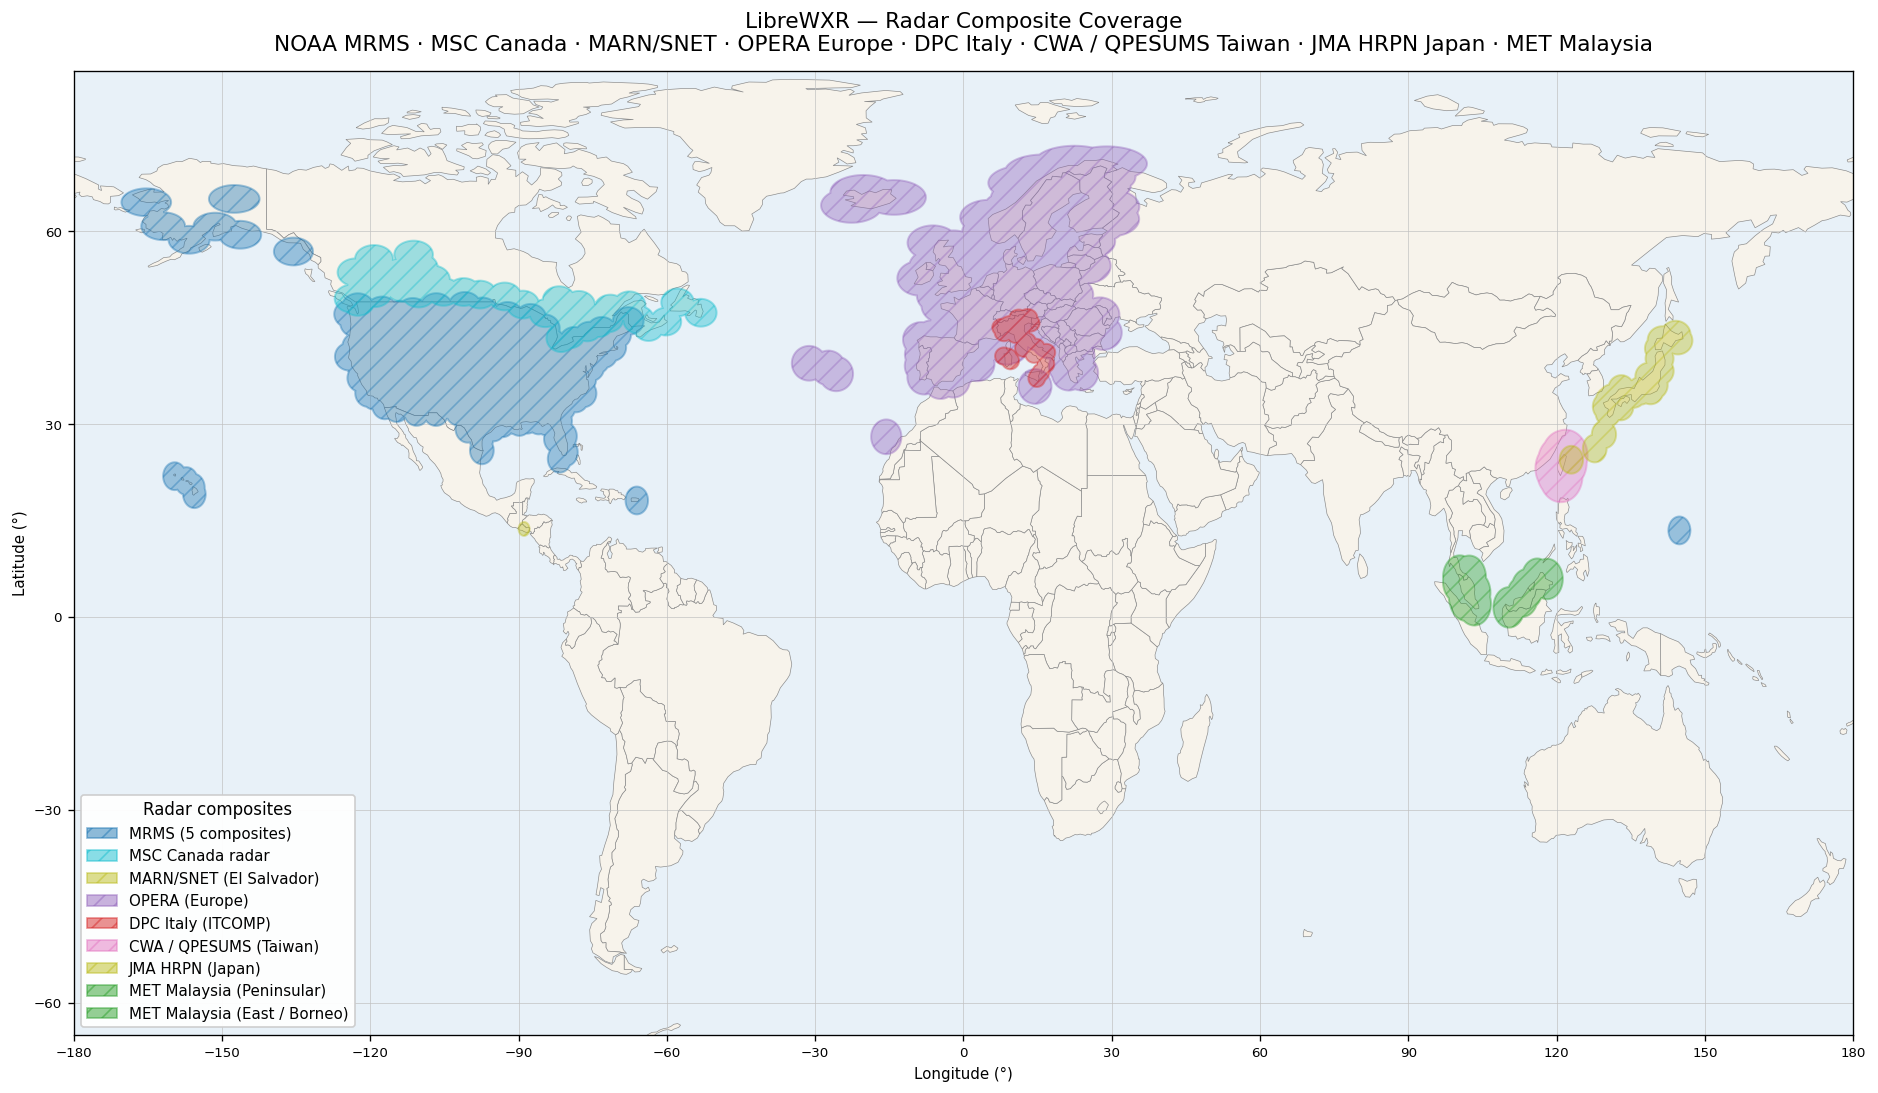
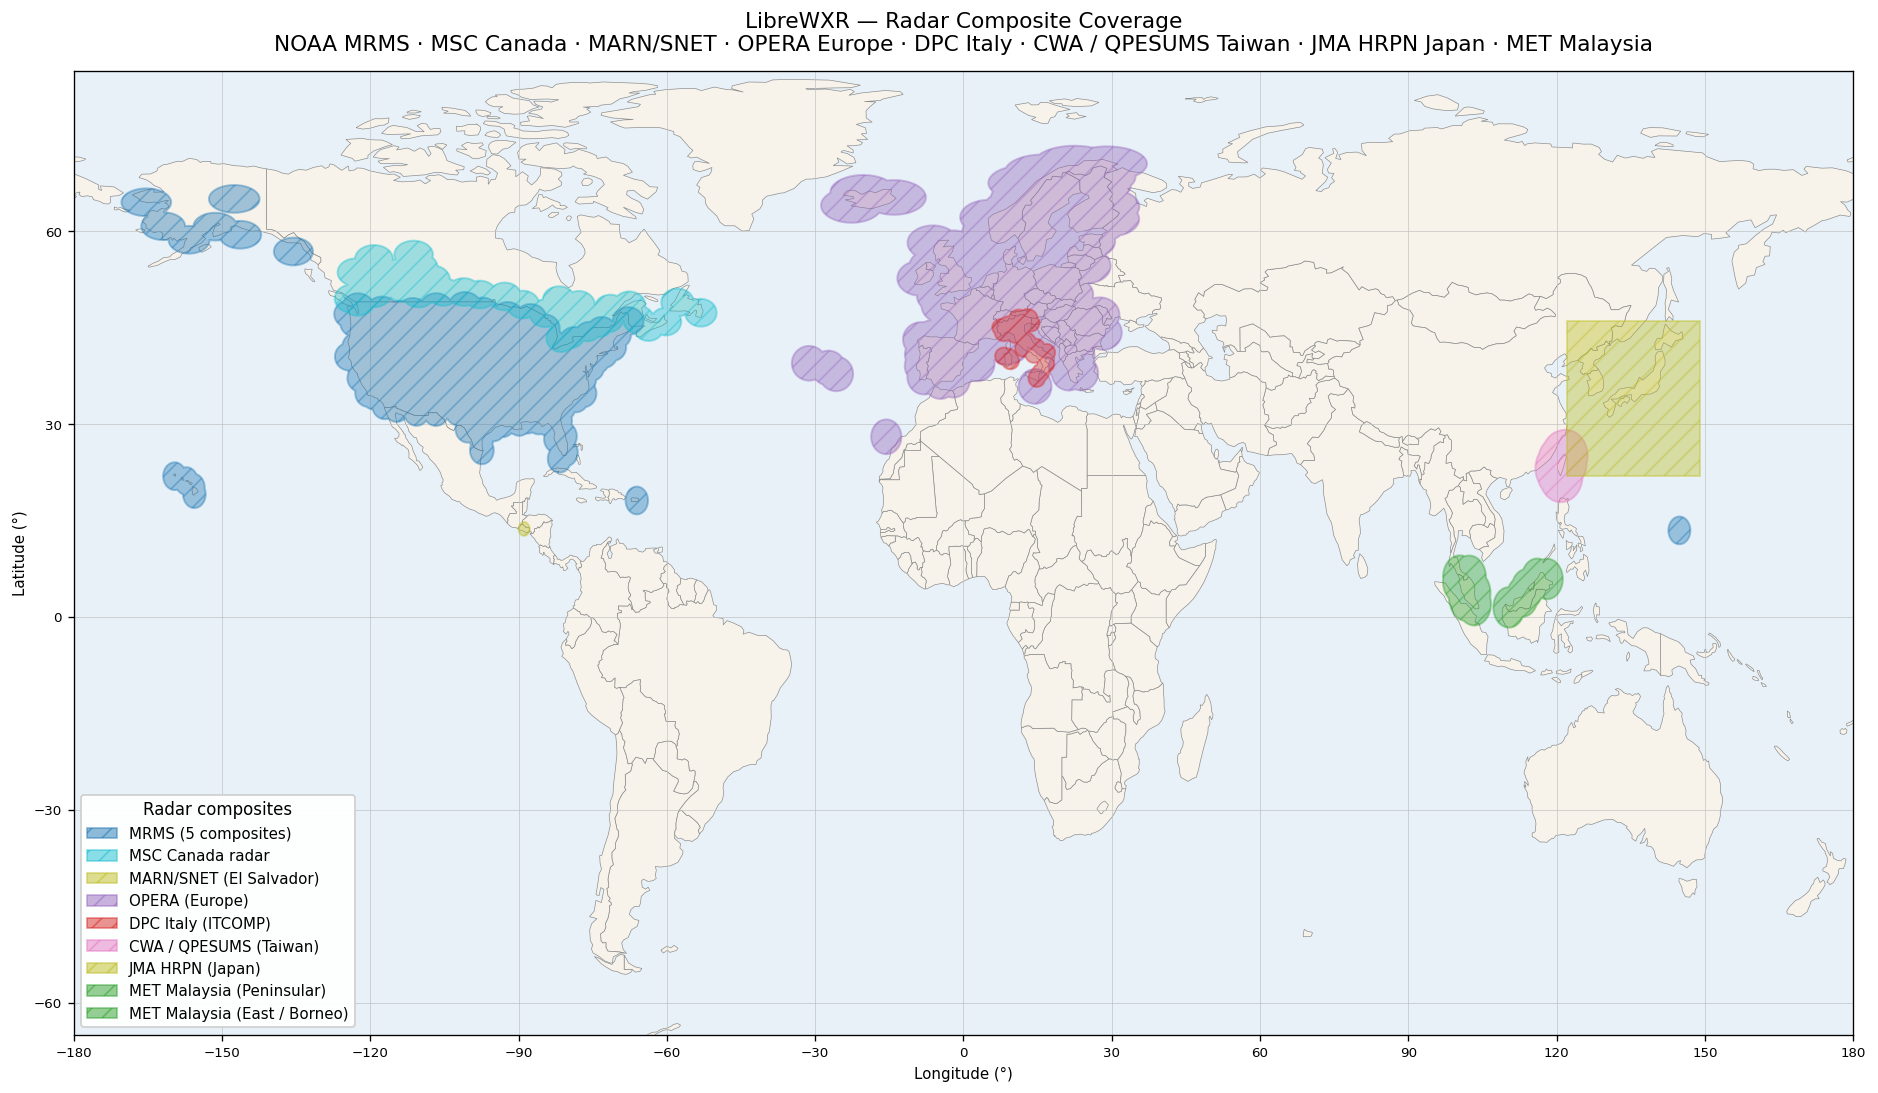
Regenerate coverage maps for JMA HRPN full-region treatment
Render JMA HRPN as the full JPCOMP rectangle in the coverage map
script too — matches the runtime contract from 0681b22 (the HRPN
gauge-corrected composite covers its tile-pyramid extent, not the
union of 240 km Doppler circles).  Also drops the stale "JMA's own
forecast leg ingested as a NowcastContribution" comment — that path
was removed in 2eeeafc.

All eight coverage PNGs regenerated.

Changed region(s): [[0.8339, 0.28, 0.9265, 0.4355]]

diff --git a/scripts/generate_coverage_map.py b/scripts/generate_coverage_map.py
@@ -353,12 +353,19 @@ def build_radar_sources() -> list[Source]:
     for poly in union_of_radar_circles(CWA_STATIONS, range_for("TWCOMP")):
         radar.append(Source("CWA / QPESUMS (Taiwan)", "#e377c2", poly))
 
-    # JMA HRPN composite — 20 C-band Doppler radars spanning Hokkaido
-    # to the Ryukyu Islands.  Composite product (radar + AMeDAS gauge
-    # blend) is published as the JPCOMP region, with JMA's own forecast
-    # leg ingested as a NowcastContribution.
-    for poly in union_of_radar_circles(JMA_STATIONS, range_for("JPCOMP")):
-        radar.append(Source("JMA HRPN (Japan)", "#bcbd22", poly))
+    # JMA HRPN composite — gauge-corrected QPE fusing 20 C-band Doppler
+    # radars, the XRAIN X-band network, and the AMeDAS rain-gauge field
+    # into one published product whose tile pyramid extends deep into
+    # the offshore Pacific.  Renders as the full JPCOMP rectangle to
+    # match the runtime coverage contract (see
+    # ``data/coverage.py:sample_coverage`` — no station map → bbox-
+    # bounded full coverage).  Union of 240 km Doppler circles would
+    # under-represent the real footprint, same way it under-represented
+    # it at runtime before the 2026-05-30 fix.
+    radar.append(Source(
+        "JMA HRPN (Japan)", "#bcbd22",
+        latlon_box(122.0, 149.0, 22.0, 46.0),
+    ))
 
     # MET Malaysia — 12-radar S-band network split across Peninsular
     # Malaysia (7 stations) and East Malaysia / Borneo (5 stations),